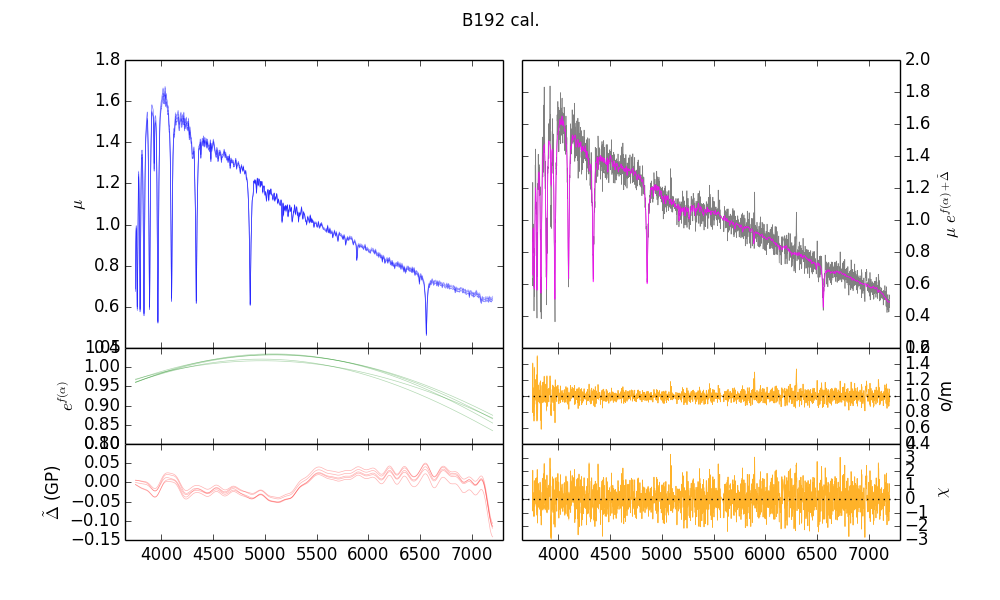
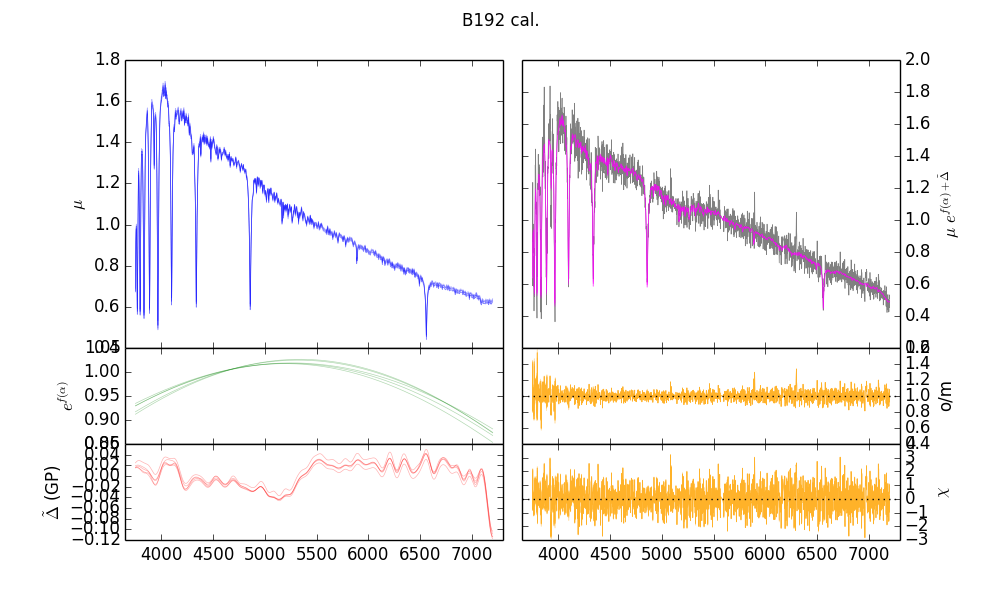
figure for new model including gp_length

diff --git a/tex/figures/make_figures.py b/tex/figures/make_figures.py
@@ -166,7 +166,7 @@ def one_specregion_figure(wave, obs, specs, reg,
     rfig.set_ylabel(r'$\chi$')
     rfig.set_xlabel(r'$\lambda (\AA)$')
     inreg = (wave > reg[0]) & (wave < reg[1])
-    print(inreg.sum())
+    #print(inreg.sum())
 
     for s in specs:
         sfig.plot(wave[inreg], s[3][inreg], alpha=0.3, color = 'magenta')
@@ -198,7 +198,7 @@ def phot_figure(results, alpha=0.3, samples = [-1],
                                   flatchain.shape[2])
     thetas = [flatchain[s,:] for s in samples]
     mwave, mospec, mounc, specvecs = comp_samples(thetas, results['model'], photflag=1)
-    print(mwave, mospec)
+    #print(mwave, mospec)
     for vecs in specvecs:
         vv = vecs[0], vecs[-1]
         [ax.plot(mwave, v, color='magenta', alpha=alpha, marker='o', **kwargs)
@@ -413,13 +413,16 @@ if __name__ == '__main__':
     samples = np.random.uniform(0, 1, size=nsample)
     showpars_phys = ['mass', 'tage', 'zmet', 'dust2', 'sigma_smooth']
     showpars_cal = ['dust2', 'spec_norm','poly_coeffs1', 'poly_coeffs2', 'gp_length', 'gp_amplitude', 'gp_jitter']
-    zoom_regions = [[3920,4150.], [6500, 6600.], [5850, 5950], [5000, 5400]]
+    zoom_regions = [[3750,4100.], [6500, 6600.], [5850, 5950], [5000, 5400]]
     
     results = []
     rdir = '/Users/bjohnson/Projects/cetus/results/'
     #res = [rdir+'b192-g242.020.cal_1405648278.sampler01',
     #       rdir+'b192-g242.020.nocal_1405677518.sampler01']
-    res = [rdir+'b192-g242.225.cal_1407376313.sampler01']
+    #res = [rdir+'b192-g242.225.cal_1407376313.sampler01']
+    #res = [rdir+'b192-g242.225.cal_1407608570.sampler01']
+    #res = [rdir+'b192-g242.225.cal_1409443437.sampler01']
+    res = [rdir+'b192-g242.225.cal_1409477803.sampler01']
     inlog = True
 
     name = ['B192 cal.', 'B192 no cal.']

diff --git a/tex/ms.tex b/tex/ms.tex
@@ -311,7 +311,9 @@ SHOULD THIS SHOW ALL THE CLUSTERS OR JUST ONE?.}\label{fig:data}}
 
 \item We should test on fake data, with known squiggly
   calibration applied, to demonstrate that we can infer the
-  calibration vector and the physical parameters with no bias.
+  calibration vector and the physical parameters with no bias.  We
+  should use the squiggly calibration derived from one of Nelson's
+  calibrated/uncalibrated spectra.
 
 \item We infer the parameters of the spectrum of a real cluster that
   has been photometrically calibrated. 
